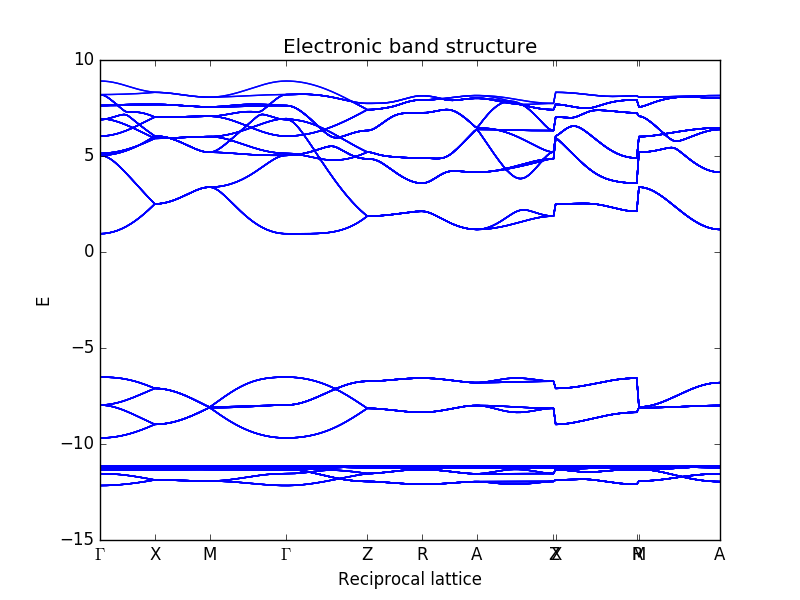
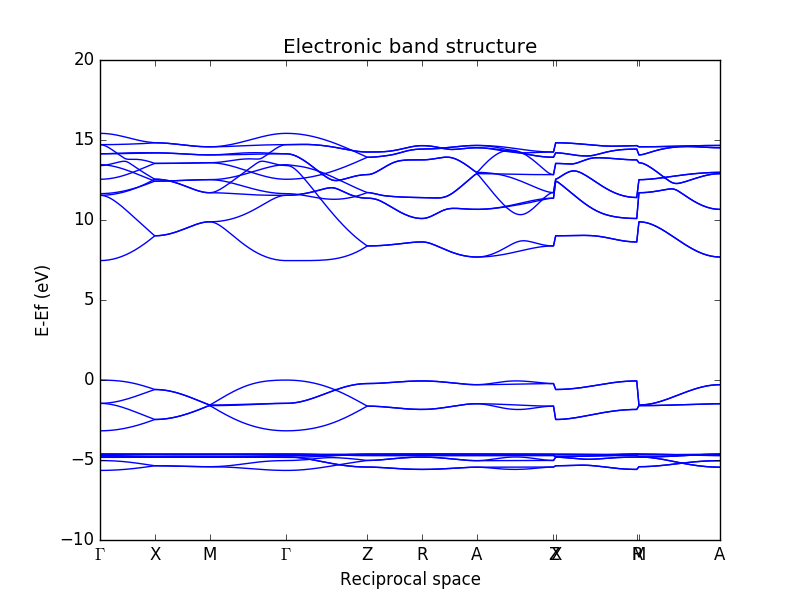
fermi shift

diff --git a/e_bands/Processing/bandsplot.py b/e_bands/Processing/bandsplot.py
@@ -57,7 +57,7 @@ for line in open(bfile).readlines():
 		if j==nbands:
 			j=0
 		for e in eigen:
-			energies[j].append(eigen)
+			energies[j].append(e)
 			j = j+1
 
 
@@ -79,12 +79,14 @@ i=0
 #print energies
 
 
-
+# 6.51
 plt.figure()
 for x in energies:
+	print x
+	x = [float(y)+6.51 for y in x]
 	plt.plot(kpoints,x,'-b',)
 plt.xlabel('Reciprocal space')
-plt.ylabel('E')
+plt.ylabel('E-Ef (eV)')
 plt.title('Electronic band structure')
 plt.xlim([0,kpoints[-1]])
 plt.xticks(ticks,tickslabel)
